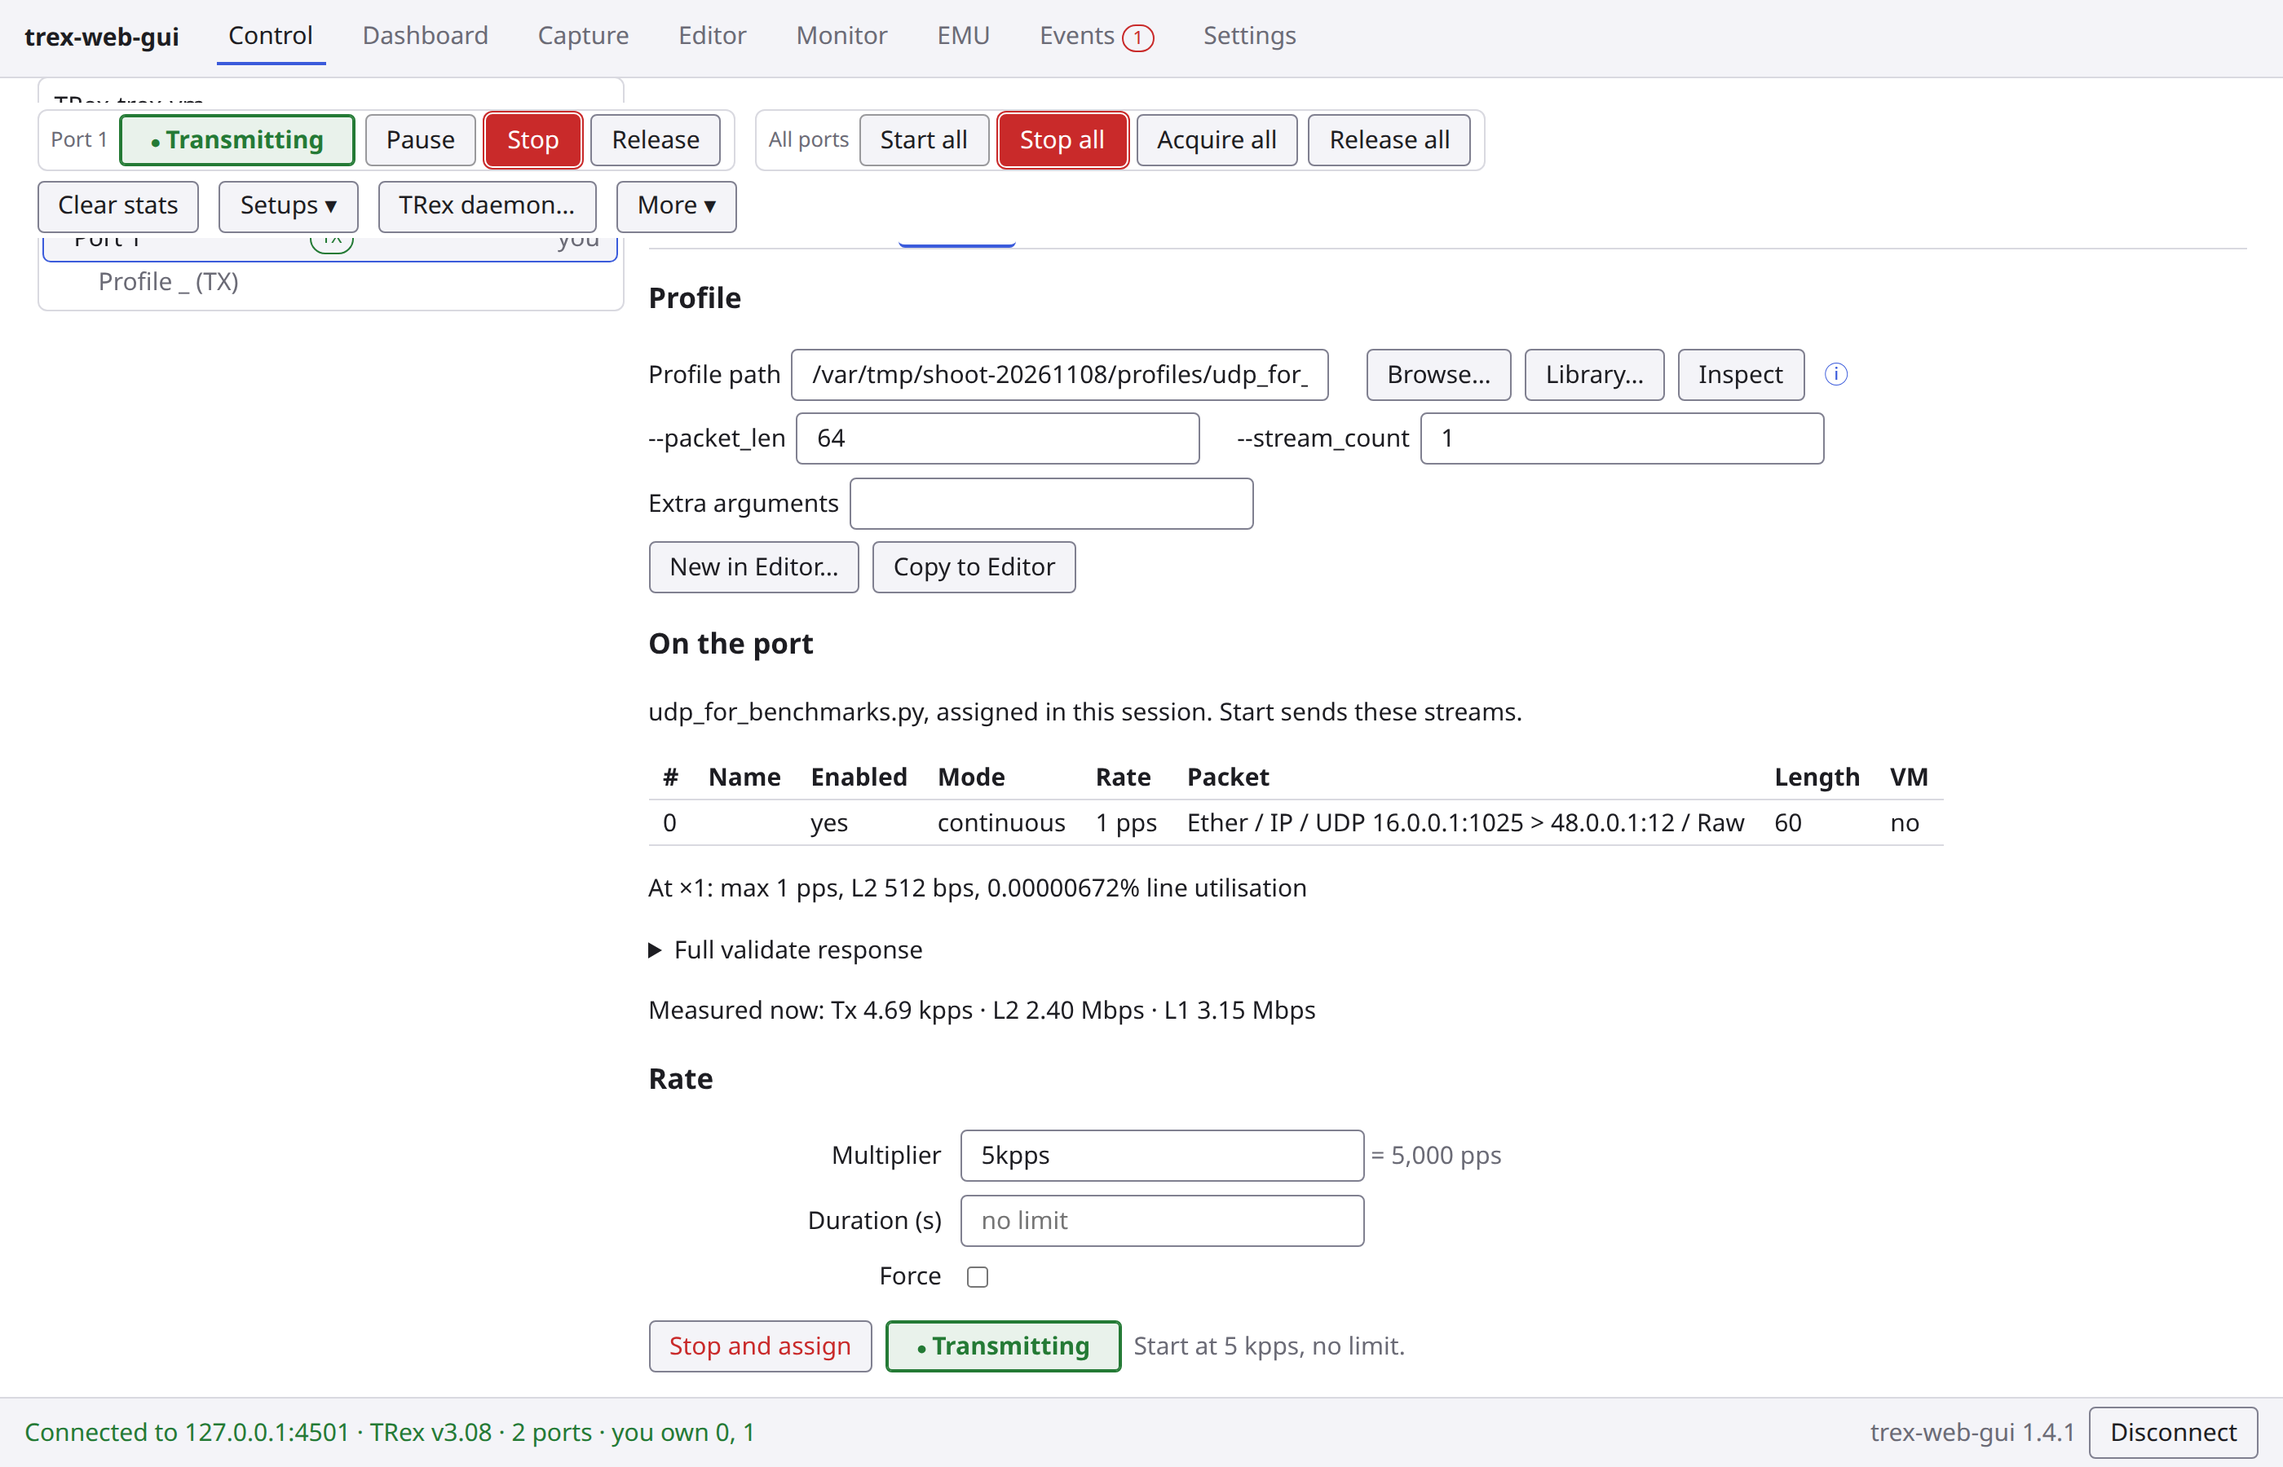
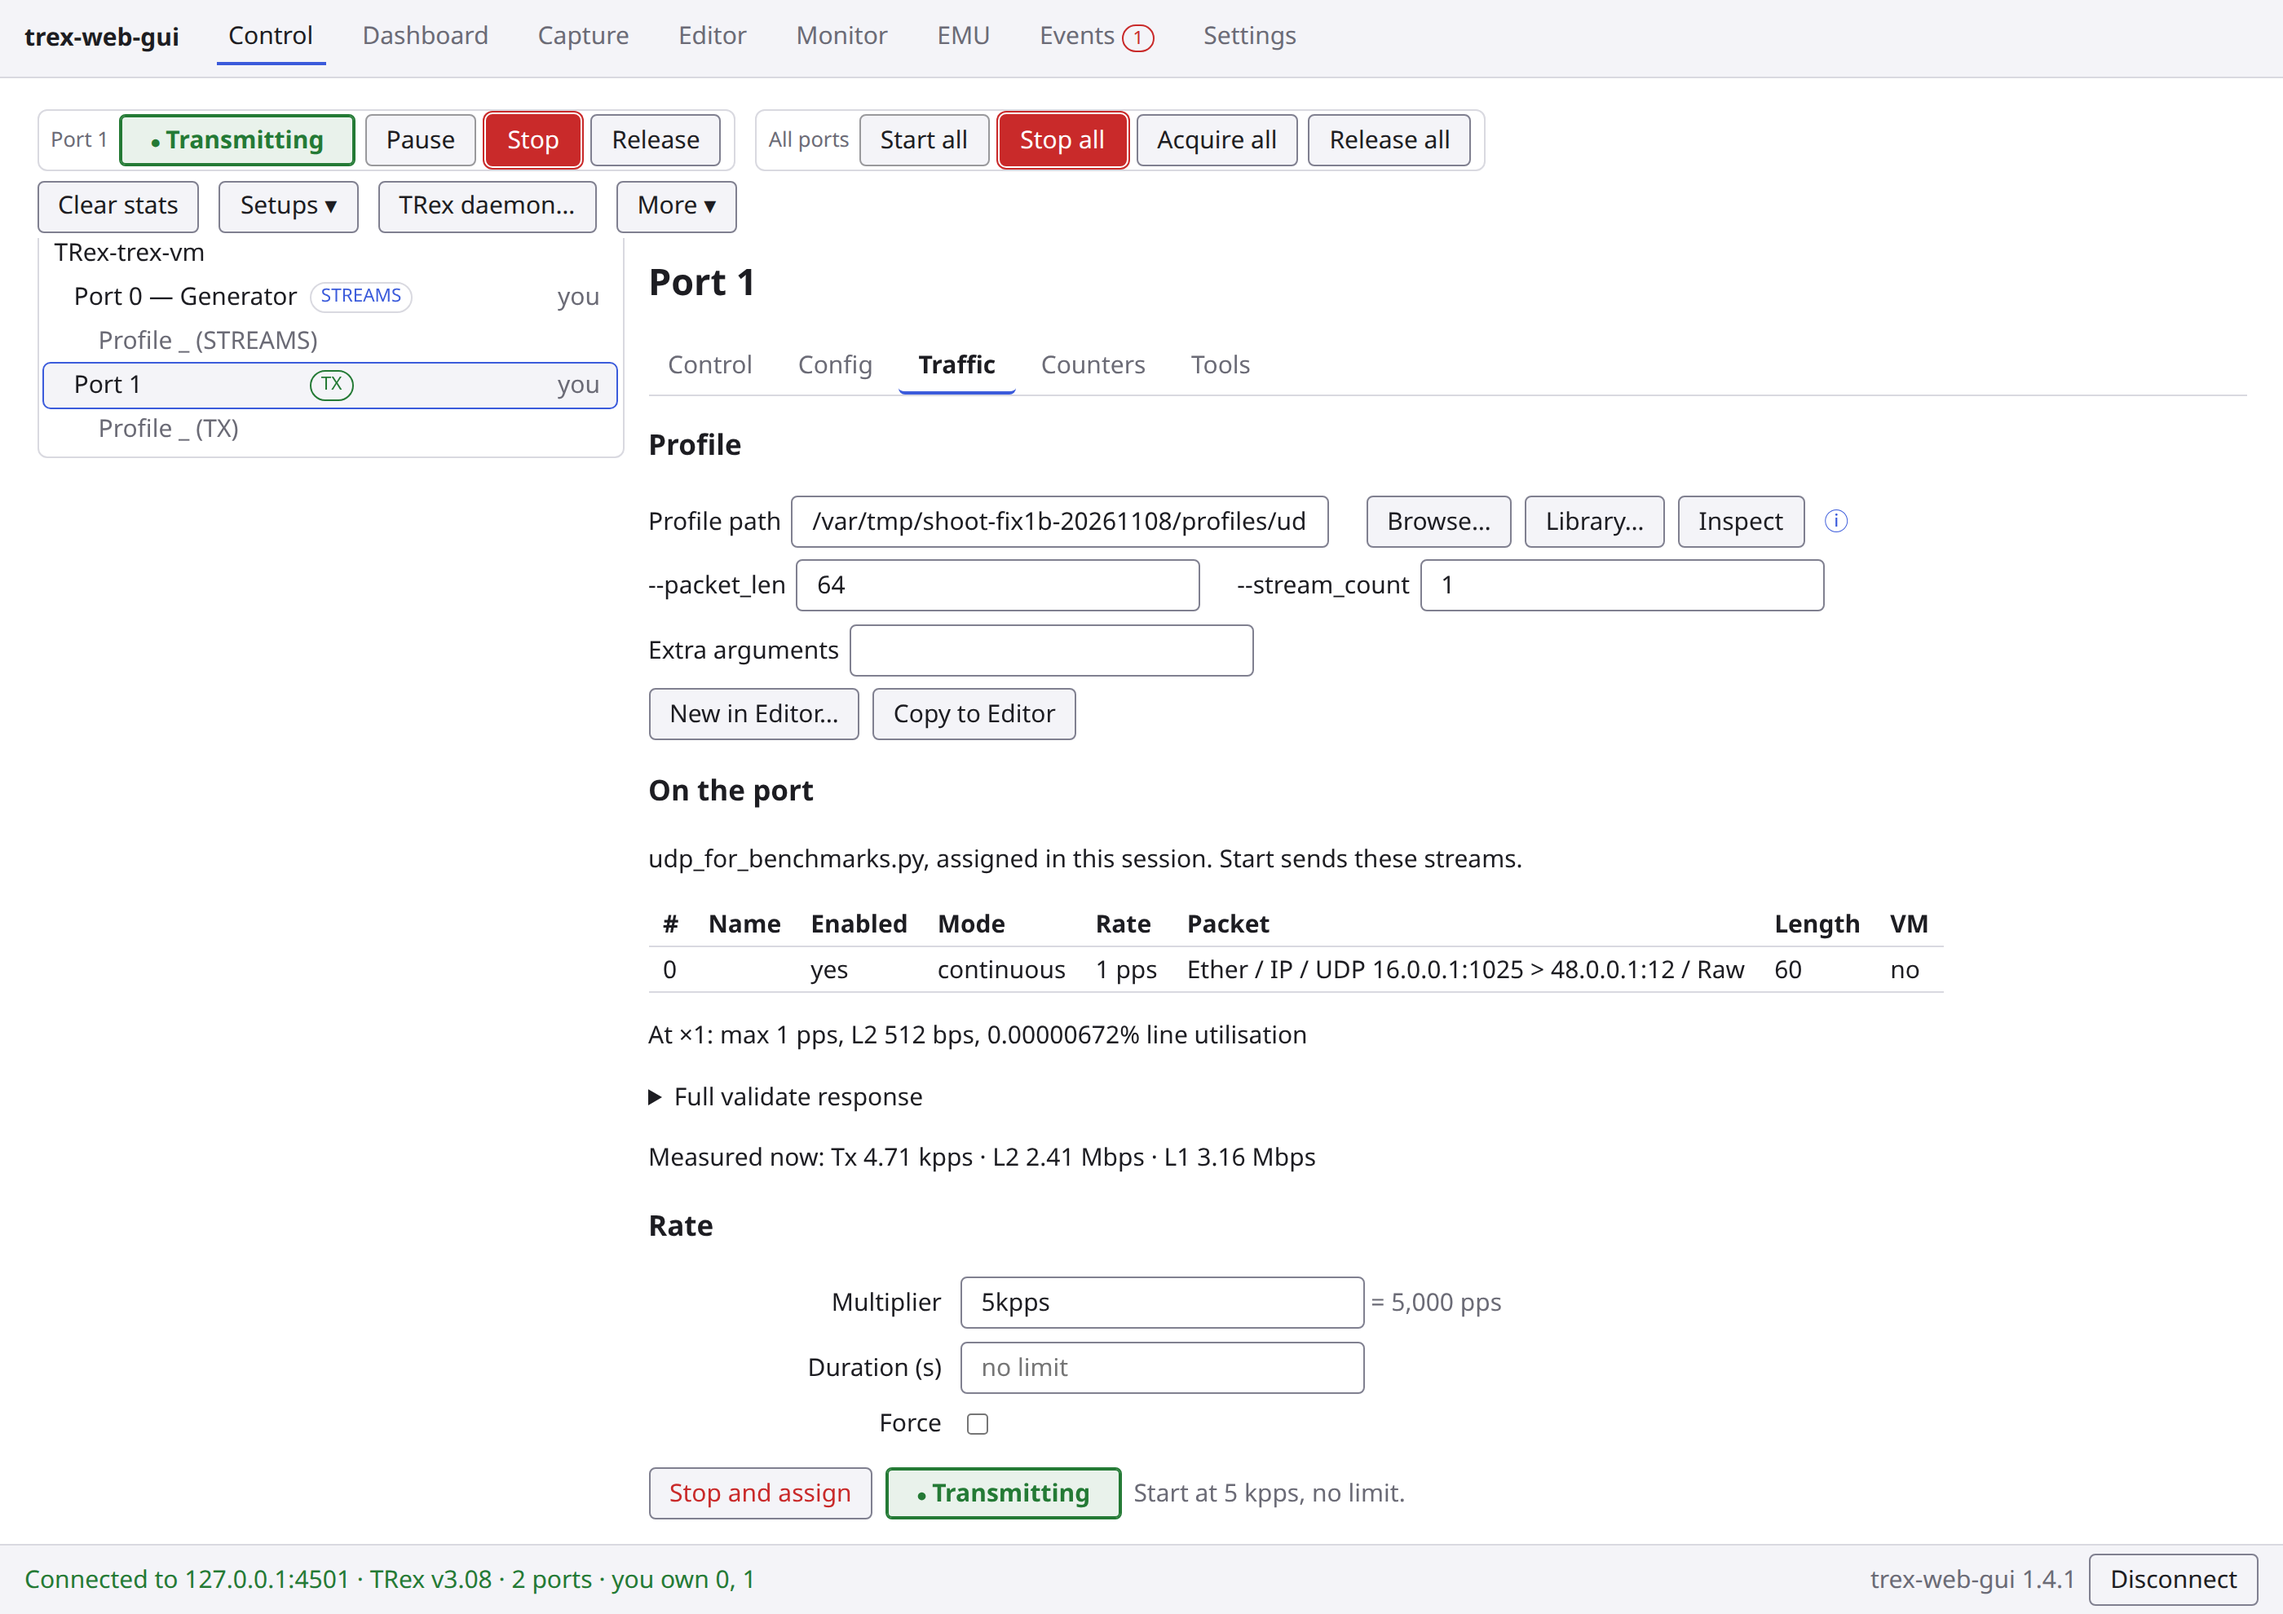
Status bar keeps the version on one line; Test setups dialog fits at 900 px; re-frame shots 23-25, 75, 77 (Task 9 fix round 1)

diff --git a/frontend/src/index.css b/frontend/src/index.css
@@ -359,7 +359,7 @@ button.expander { min-height: 0; padding: 0 .2rem; }
 .columns-panel label { display: block; white-space: nowrap; clear: both; }   /* below the floated legend, not beside it */
 .columns-panel legend { padding: 0; float: left; width: 100%; font-weight: 600; }
 /* Test setups: a fixed-height master-detail; the list and the detail pane each scroll, the footer stays. */
-.setups-dialog { display: flex; flex-direction: column; width: min(56rem, 92vw); height: min(36rem, 85vh); }
+.setups-dialog { display: flex; flex-direction: column; width: min(56rem, 92vw); height: min(40rem, 85vh); }   /* 40rem: a 2-port detail and a failed Run's actions fit at 900 px */
 .setups-master { display: grid; grid-template-columns: minmax(11rem, 16rem) 1fr; gap: 1rem; flex: 1; min-height: 0; }
 .setups-list { list-style: none; margin: 0; padding: 0; overflow: auto; border-right: 1px solid var(--border); }
 .setups-list [role="option"] { display: flex; flex-direction: column; padding: .35rem .5rem; cursor: pointer; border-radius: 4px; }
@@ -395,7 +395,7 @@ button.expander { min-height: 0; padding: 0 .2rem; }
 fieldset.plain { border: 0; padding: 0; margin: 0; }
 fieldset.plain legend { padding: 0; font-weight: 600; font-size: 1.1em; margin-bottom: .5rem; }
 .badge.badge-alert { color: var(--bad); border-color: var(--bad); }
-.statusbar .end { margin-left: auto; display: flex; align-items: center; gap: .5rem; }
+.statusbar .end { margin-left: auto; display: flex; align-items: center; gap: .5rem; flex-shrink: 0; white-space: nowrap; }   /* the version and buttons keep their width; a long message wraps instead */
 .statusbar .end button, .statusbar .end a { color: var(--fg); background: var(--panel); }
 .statusbar .end button[data-run]:enabled { box-shadow: 0 0 0 1px var(--panel), 0 0 0 2px var(--run); }   /* the box's gap in the bar's colour */
 

diff --git a/frontend/src/controls.test.ts b/frontend/src/controls.test.ts
@@ -98,6 +98,11 @@ describe('control tokens and base rule', () => {
   it('the Columns panel keeps each label on one line', () => {
     expect(only('.columns-panel label').body).toContain('white-space: nowrap')
   })
+  it('the status bar keeps the version and its buttons on one line, so a long message wraps instead of them', () => {
+    const end = only('.statusbar .end').body
+    expect(end).toContain('flex-shrink: 0')
+    expect(end).toContain('white-space: nowrap')
+  })
   it('each Columns label clears the floated legend, so the first one is not pushed beside it and out of the panel', () => {
     expect(only('.columns-panel legend').body).toContain('float: left')
     expect(only('.columns-panel label').body).toContain('clear: both')

diff --git a/vm/shoot_inventory.py b/vm/shoot_inventory.py
@@ -551,6 +551,39 @@ async def step_control(c):
     await b.scroll("main", 0)
 
 
+# The port panel's framing: <main> is scrolled so the port heading (the h2 above .port-panel) and the tabs
+# sit just below the sticky Control toolbar. Returns how many CSS px the bottom of the visible tab panel (the
+# Traffic tab's action bar) then falls below main's bottom edge (0 when it fits), plus the rects for the log.
+_FRAME_PANEL = """(() => {
+  const m = document.querySelector('main'), t = document.querySelector('.toolbar[role=toolbar]')
+  const pp = document.querySelector('.port-panel')
+  const head = pp.previousElementSibling && pp.previousElementSibling.tagName === 'H2' ? pp.previousElementSibling : pp
+  const panel = [...pp.querySelectorAll('[role=tabpanel]')].find((e) => S.vis(e))
+  const bottom = () => Math.max(...[...panel.querySelectorAll('*')].filter((e) => S.vis(e)).map((e) => e.getBoundingClientRect().bottom))
+  m.scrollTop += head.getBoundingClientRect().top - t.getBoundingClientRect().bottom - 8
+  const over = Math.max(0, Math.ceil(bottom() + 8 - m.getBoundingClientRect().bottom))
+  return { over, rects: [head.getBoundingClientRect().top, t.getBoundingClientRect().bottom, bottom(), m.getBoundingClientRect().bottom] }
+})()"""  # noqa: E501  (JS source embedded as data)
+
+
+async def framed_panel_shot(b, name):
+    """Shoot the port panel with its heading and tabs below the sticky toolbar and its action bar shown. When
+    the panel is taller than the 900 px window leaves room for, the window is made taller by the difference
+    (rounded up to 10 px) for this one shot, as 119 is, rather than cutting the action bar or hiding the
+    heading."""
+    r = await b.js(_FRAME_PANEL)
+    height = HEIGHT if r["over"] == 0 else HEIGHT + -(-r["over"] // 10) * 10
+    if height != HEIGHT:
+        await b.viewport(height)
+        await asyncio.sleep(0.3)
+        r = await b.js(_FRAME_PANEL)
+    print(f"frame {name} at {height} px: over {r['over']}, [heading top, toolbar bottom, panel bottom,"
+          f" main bottom] {r['rects']}", flush=True)
+    await b.shot(name)
+    if height != HEIGHT:
+        await b.viewport()
+
+
 async def step_port_tabs(c):
     """16-27: Config, Tools (Ping, IPv6 neighbours), Traffic (empty, Browse, inspected, transmitting, update)
     and Counters; 115, Traffic's floating ⓘ note."""
@@ -585,7 +618,7 @@ async def step_port_tabs(c):
     await b.click("Show rate at ×1", "button")
     await b.click("Assign", "button", "[role=tabpanel]")
     await asyncio.sleep(1.5)
-    await b.shot("23-port-traffic-inspected")
+    await framed_panel_shot(b, "23-port-traffic-inspected")
     await b.click("About profile paths", "button", "[role=tabpanel]")      # the floating ⓘ note (RC1-34)
     await b.wait("document.querySelector('[role=note]:not([hidden])') !== null", 10, "the profile paths note")
     await b.shot("115-traffic-profile-note")
@@ -598,11 +631,11 @@ async def step_port_tabs(c):
                  " const m = /^Measured now: Tx ([\\d.]+) kpps/.exec(p.textContent);"
                  " return m && +m[1] >= 4.5 })",
                  20, "the measured rate at 5 kpps")
-    await b.shot("24-port-traffic-transmitting")
+    await framed_panel_shot(b, "24-port-traffic-transmitting")
     await b.fill("Multiplier", "8kpps")
     await b.key("Enter")               # typing alone never starts the countdown; Enter commits
     await b.wait_text("Applying")
-    await b.shot("25-port-traffic-update")
+    await framed_panel_shot(b, "25-port-traffic-update")
     await b.click("Apply now", "button")
     await b.click("Counters", "[role=tab]")
     await asyncio.sleep(1.5)
@@ -797,6 +830,20 @@ async def pick(b, name):
     await b.click(f"~{name}", "[role=option]", "[role=dialog]")
 
 
+# Scroll the Test setups detail pane so the last port row that reads "failed" ends above the sticky actions
+# bar; returns the px scrolled (0 when it already did).
+_CLEAR_FAILED_ROW = """(() => {
+  const d = document.querySelector('[role=dialog]')
+  const row = [...d.querySelectorAll('.setups-ports tr')].filter((r) => r.textContent.includes('failed')).pop()
+  const bar = d.querySelector('.setups-actions')
+  let pane = row.parentElement
+  while (pane && !/(auto|scroll)/.test(getComputedStyle(pane).overflowY)) pane = pane.parentElement
+  const by = Math.max(0, Math.ceil(row.getBoundingClientRect().bottom + 4 - bar.getBoundingClientRect().top))
+  pane.scrollTop += by
+  return by
+})()"""  # noqa: E501  (JS source embedded as data)
+
+
 async def step_setups(c):
     """65-82: the Setups menu, Save current setup (refused port, filled, overwrite), the Test setups dialog
     (list, loaded, edits since Load, Run failed at assign, Run finished, Run failed at start, Stop started
@@ -874,6 +921,9 @@ async def step_setups(c):
     await b.wait_text("ready")
     await b.click("Run", "button", "[role=dialog]")
     await b.wait_for("Stop started ports", "button", "[role=dialog]", timeout=40)
+    # the failed row scrolls itself into view, but the sticky bar (Load, Run, Stop started ports and the
+    # two-line reason) is taller than the row's scroll margin: scroll the pane on until the row clears the bar
+    print("77 pane scrolled by:", await b.js(_CLEAR_FAILED_ROW), flush=True)
     await b.shot("77-manage-setups-run-failed-start")
     await b.click("Stop started ports", "button", "[role=dialog]")
     await b.wait_gone("Stop started ports", "button", "[role=dialog]")

diff --git a/docs/gui-inventory/README.md b/docs/gui-inventory/README.md
@@ -10,7 +10,14 @@ shots use the default, Comfortable, [53](screens/53-settings-appearance.png)); a
 run button, the step to take (Stop while a port transmits, Resume while it is paused, Start all only while nothing
 runs), the others quiet; the Dashboard's Streams and Latency tables show the default columns of PR #112 with
 **Columns ▾**, **Show history** and **Full-width table** above them ([37](screens/37-dash-streams.png),
-[38](screens/38-dash-latency-top.png)). The shots that show traffic also carry new live numbers and times.
+[38](screens/38-dash-latency-top.png)). The shots that show traffic also carry new live numbers and times. In its fix
+round: the status bar keeps `trex-web-gui <version>` and its buttons on one line and wraps a long message instead
+([06](screens/06-connect-error.png), [32](screens/32-statusbar-reconnect-failed.png), [118](screens/118-emu-connected.png));
+the Test setups dialog is up to 40 rem tall, so a two-port setup's detail fits at 900 px
+([75](screens/75-manage-setups-run-finished.png)); and the Traffic tab's [23](screens/23-port-traffic-inspected.png),
+[24](screens/24-port-traffic-transmitting.png) and [25](screens/25-port-traffic-update.png) are taller windows (990, 990
+and 1000 px, so 2800x1980 and 2800x2000), the least that shows the port heading and tabs below the sticky toolbar and the
+action bar above the status bar.
 
 **Traffic tab shots re-shot for the measured rate (2026-11-08).** The Traffic tab's **On the port** section now ends
 with "Measured now: Tx … · L2 … · L1 …" (ui-recs-3), so the 18 shots that show it were shot again on `main` after PR
@@ -701,7 +708,8 @@ A Run that finished (the setup stops, assigns and starts both ports):
 ![Test setups, Run finished](screens/75-manage-setups-run-finished.png)
 
 A Run that failed at **start** (the setup asks 100 Gbps of port 1, which TRex refuses on a 10 Gbps port; port 0 had started, so
-**Stop started ports** is offered; the failed row is in view without scrolling):
+**Stop started ports** is offered; the failed row scrolls itself into view, and the shot scrolls the pane a little
+further so the row clears the sticky bar under it, which leaves the title row just above the top edge):
 
 ![Test setups, Run failed at start](screens/77-manage-setups-run-failed-start.png)
 
@@ -1369,7 +1377,7 @@ connect bar ([95](screens/95-monitor-guest-global.png)), with the Disconnect/Con
 ([99](screens/99-monitor-inspector.png)); the Run tab keeps long help behind ⓘ (Extra arguments, command port) and its actions (Start, Stop) in one
 bar ([105](screens/105-daemon-stf-running.png)); the Start confirmation shows the host, port and command ([104](screens/104-daemon-start-confirm.png)).
 Mismatches found:
-- The Monitor's CPU chart labels its y axis `0 %` on every tick when the CPU is near zero ([96](screens/96-monitor-guest-charts.png)).
+- The Monitor's CPU chart labels its y axis `0 %` on every tick when the CPU is near zero ([96](screens/96-monitor-guest-charts.png); the 2026-11-08 re-shoot no longer shows it: its ticks read `0.2 %` and `0.1 %`).
 - The Monitor's Host and Port are one row but Connect and Disconnect sit on a second row beneath them; the other connect forms put
   their buttons at the row's end ([52](screens/52-monitor-disconnected.png)).
 - The daemon dialog's Config tab: an error ("is required") touches the button beside it in the Interfaces and Ports info boxes, and Load
